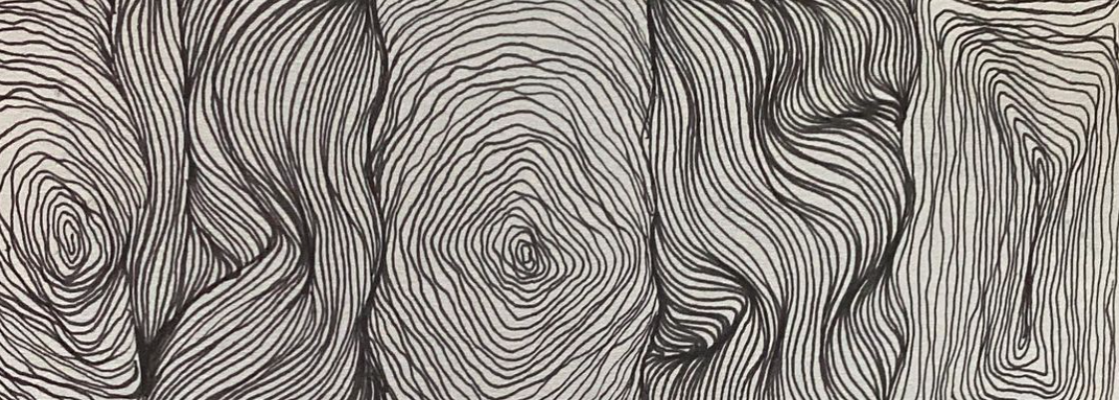
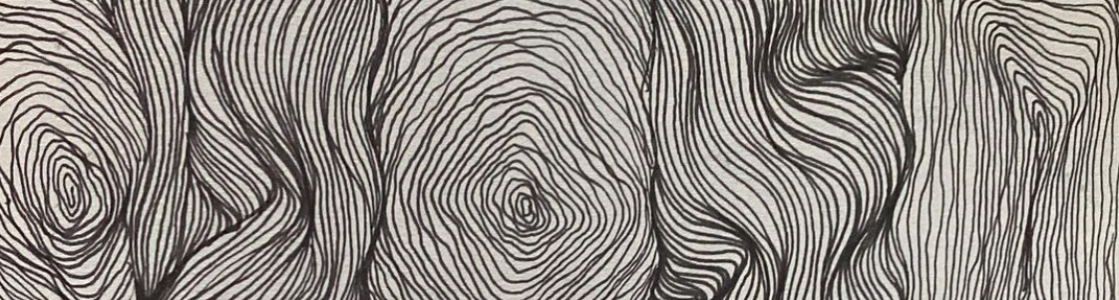
Update header image height and add background image

diff --git a/src/app/layout.tsx b/src/app/layout.tsx
@@ -1,16 +1,33 @@
 import type { Metadata } from "next";
-import { Inter, Playfair_Display_SC } from "next/font/google";
+import { Inter, Playfair } from "next/font/google";
 import "./globals.css";
 import Header from "@/components/Header";
 import localFont from 'next/font/local'
  
 // Font files can be colocated inside of `pages`
-const playfairBlack = localFont({ src: 'fonts/Playfair_Display_SC/PlayfairDisplaySC-Black.ttf' });
-const playfairBold = localFont({ src: 'fonts/Playfair_Display_SC/PlayfairDisplaySC-Bold.ttf' });
-const playfairRegular = localFont({ src: 'fonts/Playfair_Display_SC/PlayfairDisplaySC-Regular.ttf' });
-const playfairItalic = localFont({ src: 'fonts/Playfair_Display_SC/PlayfairDisplaySC-Italic.ttf' });
+const playfairBlack = localFont({ 
+  src: 'fonts/Playfair_Display_SC/PlayfairDisplaySC-Black.ttf',
+  variable: '--font-playfair-black'
+});
+const playfairBold = localFont({ 
+  src: 'fonts/Playfair_Display_SC/PlayfairDisplaySC-Bold.ttf',
+  variable: '--font-playfair-bold'
+});
+const playfairRegular = localFont({ 
+  src: 'fonts/Playfair_Display_SC/PlayfairDisplaySC-Regular.ttf',
+  variable: '--font-playfair-regular'
+});
+const playfairItalic = localFont({ 
+  src: 'fonts/Playfair_Display_SC/PlayfairDisplaySC-Italic.ttf',
+  variable: '--font-playfair-italic'
+});
 
-
+const pfd = Playfair({
+  weight: '400',
+  subsets: ['latin'],
+  style: 'normal',
+  variable: '--font-pfd'
+});
 // const inter = Inter({ subsets: ["latin"] });
 // const play = Playfair_Display_SC({
 //   weight: '400',
@@ -30,7 +47,7 @@ export default function RootLayout({
   children: React.ReactNode;
 }>) {
   return (
-    <html lang="en" className={playfairRegular.className}>
+    <html lang="en" className={pfd.className}>
       {/* <body className={play.className}> */}
       <body>
         <Header />

diff --git a/src/components/Header.tsx b/src/components/Header.tsx
@@ -12,13 +12,14 @@ const Header = () => {
         </div>
         <div className="w-full ">
           <div className="header-image-container">
-            <Image 
+            {/* <Image 
                 className="header-image"
                 src="/media/images/banner_1.jpg" 
                 alt="LM-Art" 
-                layout="fill" 
+                width={1119} 
+                height={400}
                 objectFit="cover"
-            />
+            /> */}
         </div>
             {/* <Image 
                 className="header-image"
@@ -29,7 +30,7 @@ const Header = () => {
                 style={{ width: '100%', height: 'auto' }}
             /> */}
         </div>
-          <p className="py-5 text-xs lg:text-sm xl:text-lg">Art is the cure for the soul.</p>
+          <p className="py-5 text-xs sm:text-sm xl:text-lg">Art is the cure for the soul.</p>
       </div>
         {/* <div className="pt-16 m:pt-24 pb-6"></div> */}
     </header>

diff --git a/src/app/globals.css b/src/app/globals.css
@@ -27,8 +27,11 @@ body {
 
 .header-image-container {
   position: relative;
-  height: 200px;
+  height: 300px;
   width: 100%;
+  background-image: url('/media/images/banner_1.png');
+  background-size: cover;
+  background-repeat: no-repeat;
 }
 
 .header-image-container .header-image {
@@ -37,7 +40,7 @@ body {
 
 @media screen and (min-width: 768px) {
   .header-image-container {
-      height: 150px;
+      height: 200px;
   }
 }
 
@@ -46,19 +49,3 @@ body {
       height: 150px;
   }
 }
-
-/* .header-image {
-  height: 200px;
-}
-
-@media screen and (min-width: 768px) {
-  .header-image {
-      height: 150px;
-  }
-}
-
-@media screen and (min-width: 1024px) {
-  .header-image {
-      height: 100px;
-  }
-} */
